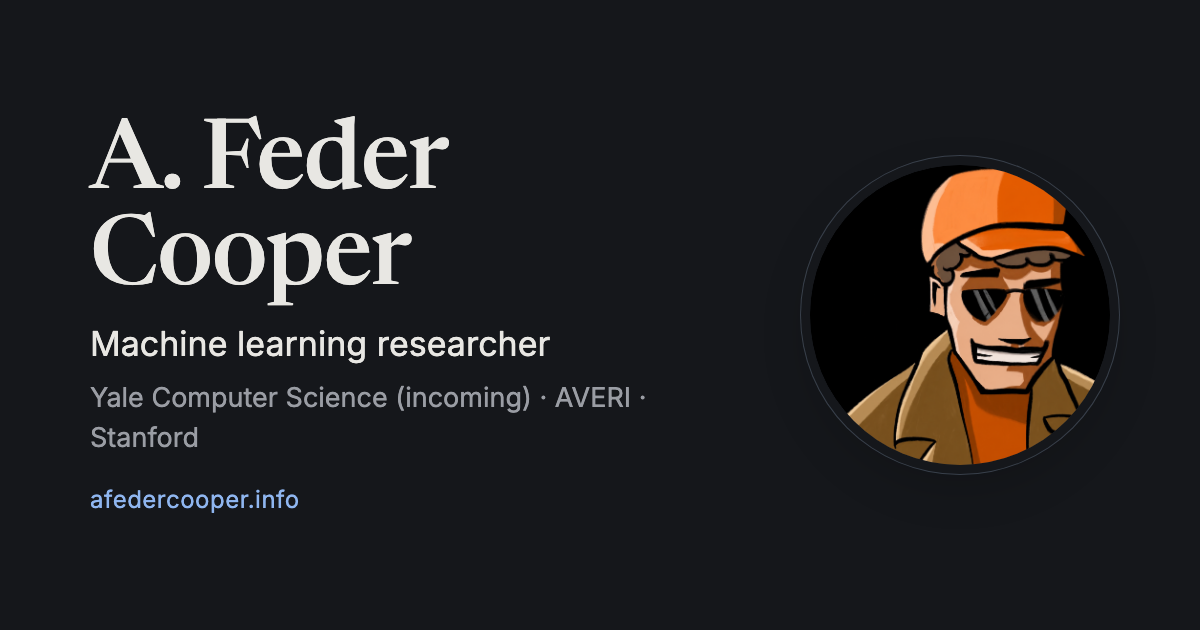
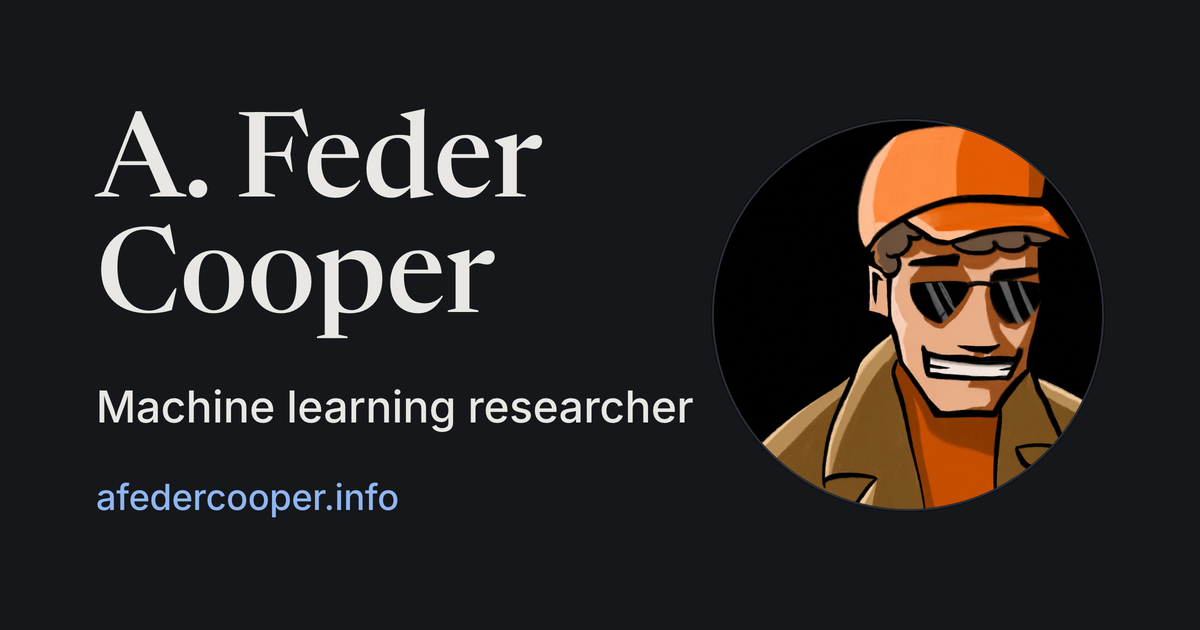
august 2026 p2

diff --git a/near-verbatim/index.html b/near-verbatim/index.html
@@ -12,6 +12,7 @@
   <style>html,body{margin:0;padding:0}</style>
   <title>How much more memorization do we find when we count near-verbatim cases?</title>
   <meta name="description" content="Measuring memorization by exact matches alone undercounts it. We estimate near-verbatim extraction risk in language models with decoding-constrained beam search.">
+  <meta name="robots" content="noindex">
 
   <link rel="preload" href="/fonts/newsreader-var.woff2" as="font" type="font/woff2" crossorigin>
   <link rel="preload" href="/fonts/inter-var.woff2" as="font" type="font/woff2" crossorigin>
@@ -22,16 +23,17 @@
 
   <!-- Open Graph / social cards -->
   <meta property="og:type" content="article">
-  <meta property="og:site_name" content="Estimating near-verbatim extraction risk in language models with decoding-constrained beam search">
-  <meta property="og:title" content="How much more memorization do we find when we count near-verbatim cases?">
-  <meta property="og:description" content="Measuring memorization by exact matches alone undercounts it. Sequences that look safe under exact-match measurement can be reproducible near-verbatim more than 85% of the time.">
+  <meta property="og:site_name" content="A. Feder Cooper">
+  <meta property="og:title" content="Estimating near-verbatim extraction risk in language models with decoding-constrained beam search">
+  <meta property="og:description" content="COLM 2026 · Coming soon.">
   <meta property="og:url" content="https://afedercooper.info/near-verbatim/">
   <meta property="og:image" content="https://afedercooper.info/og-image.png">
   <meta property="og:image:width" content="1200">
   <meta property="og:image:height" content="630">
+  <meta property="og:image:alt" content="COLM 2026 · Coming soon.">
   <meta name="twitter:card" content="summary_large_image">
-  <meta name="twitter:title" content="How much more memorization do we find when we count near-verbatim cases?">
-  <meta name="twitter:description" content="Measuring memorization by exact matches alone undercounts it. Sequences that look safe under exact-match measurement can be reproducible near-verbatim more than 85% of the time.">
+  <meta name="twitter:title" content="Estimating near-verbatim extraction risk in language models with decoding-constrained beam search">
+  <meta name="twitter:description" content="COLM 2026 · Coming soon.">
   <meta name="twitter:image" content="https://afedercooper.info/og-image.png">
 
   <!-- Cloudflare Web Analytics -->

diff --git a/index.html b/index.html
@@ -5,7 +5,7 @@
   <meta name="viewport" content="width=device-width, initial-scale=1">
   <style>html,body{margin:0;padding:0}</style>
   <title>A. Feder Cooper</title>
-  <meta name="description" content="A. Feder Cooper — machine learning researcher, Assistant Professor of Computer Science at Yale University">
+  <meta name="description" content="A. Feder Cooper — machine learning researcher">
 
   <link rel="preload" href="/fonts/newsreader-var.woff2" as="font" type="font/woff2" crossorigin>
   <link rel="preload" href="/fonts/inter-var.woff2" as="font" type="font/woff2" crossorigin>
@@ -16,17 +16,16 @@
 
   <!-- Open Graph / social cards -->
   <meta property="og:type" content="website">
-  <meta property="og:site_name" content="A. Feder Cooper">
   <meta property="og:title" content="A. Feder Cooper">
-  <meta property="og:description" content="Machine learning researcher, Assistant Professor of Computer Science at Yale University">
+  <meta property="og:description" content="Machine learning researcher">
   <meta property="og:url" content="https://afedercooper.info/">
   <meta property="og:image" content="https://afedercooper.info/og-image.png">
   <meta property="og:image:width" content="1200">
   <meta property="og:image:height" content="630">
-  <meta property="og:image:alt" content="A. Feder Cooper — machine learning researcher">
+  <meta property="og:image:alt" content="Machine learning researcher">
   <meta name="twitter:card" content="summary_large_image">
   <meta name="twitter:title" content="A. Feder Cooper">
-  <meta name="twitter:description" content="Machine learning researcher, Assistant Professor of Computer Science at Yale University">
+  <meta name="twitter:description" content="Machine learning researcher">
   <meta name="twitter:image" content="https://afedercooper.info/og-image.png">
   <!-- Cloudflare Web Analytics -->
   <script defer src='https://static.cloudflareinsights.com/beacon.min.js' data-cf-beacon='{"token": "e0d76ad15bb64aaf95e16e34749de466"}'></script>

diff --git a/publications.html b/publications.html
@@ -5,7 +5,7 @@
   <meta name="viewport" content="width=device-width, initial-scale=1">
   <style>html,body{margin:0;padding:0}</style>
   <title>Papers — A. Feder Cooper</title>
-  <meta name="description" content="Papers by A. Feder Cooper.">
+  <meta name="description" content="Research papers">
 
   <link rel="preload" href="/fonts/newsreader-var.woff2" as="font" type="font/woff2" crossorigin>
   <link rel="preload" href="/fonts/inter-var.woff2" as="font" type="font/woff2" crossorigin>
@@ -17,16 +17,16 @@
   <!-- Open Graph / social cards -->
   <meta property="og:type" content="website">
   <meta property="og:site_name" content="A. Feder Cooper">
-  <meta property="og:title" content="Papers — A. Feder Cooper">
-  <meta property="og:description" content="Selected and full list of papers by A. Feder Cooper.">
+  <meta property="og:title" content="Research papers">
+  <meta property="og:description" content="Research papers">
   <meta property="og:url" content="https://afedercooper.info/publications.html">
   <meta property="og:image" content="https://afedercooper.info/og-image.png">
   <meta property="og:image:width" content="1200">
   <meta property="og:image:height" content="630">
-  <meta property="og:image:alt" content="A. Feder Cooper — machine learning researcher">
+  <meta property="og:image:alt" content="Research papers">
   <meta name="twitter:card" content="summary_large_image">
-  <meta name="twitter:title" content="Papers — A. Feder Cooper">
-  <meta name="twitter:description" content="Selected and full list of papers by A. Feder Cooper.">
+  <meta name="twitter:title" content="Research papers">
+  <meta name="twitter:description" content="Research papers">
   <meta name="twitter:image" content="https://afedercooper.info/og-image.png">
   <!-- Cloudflare Web Analytics -->
   <script defer src='https://static.cloudflareinsights.com/beacon.min.js' data-cf-beacon='{"token": "e0d76ad15bb64aaf95e16e34749de466"}'></script>

diff --git a/pasta/index.html b/pasta/index.html
@@ -4,8 +4,8 @@
   <meta charset="utf-8">
   <meta name="viewport" content="width=device-width, initial-scale=1">
   <style>html,body{margin:0;padding:0}</style>
-  <title>Lo Studio del Pastaio — A. Feder Cooper</title>
-  <meta name="description" content="Fresh pasta, made by hand.">
+  <title>Pasta — A. Feder Cooper</title>
+  <meta name="description" content="Pasta">
 
   <link rel="preload" href="/fonts/newsreader-var.woff2" as="font" type="font/woff2" crossorigin>
   <link rel="preload" href="/fonts/inter-var.woff2" as="font" type="font/woff2" crossorigin>
@@ -17,16 +17,16 @@
   <!-- Open Graph / social cards -->
   <meta property="og:type" content="website">
   <meta property="og:site_name" content="A. Feder Cooper">
-  <meta property="og:title" content="Lo Studio del Pastaio — A. Feder Cooper">
-  <meta property="og:description" content="Fresh pasta, made by hand.">
+  <meta property="og:title" content="Pasta">
+  <meta property="og:description" content="Pasta">
   <meta property="og:url" content="https://afedercooper.info/pasta/">
   <meta property="og:image" content="https://afedercooper.info/og-image.png">
   <meta property="og:image:width" content="1200">
   <meta property="og:image:height" content="630">
-  <meta property="og:image:alt" content="A. Feder Cooper — machine learning researcher">
+  <meta property="og:image:alt" content="Pasta">
   <meta name="twitter:card" content="summary_large_image">
-  <meta name="twitter:title" content="Lo Studio del Pastaio — A. Feder Cooper">
-  <meta name="twitter:description" content="Fresh pasta, made by hand.">
+  <meta name="twitter:title" content="Pasta">
+  <meta name="twitter:description" content="Pasta">
   <meta name="twitter:image" content="https://afedercooper.info/og-image.png">
   <!-- Cloudflare Web Analytics -->
   <script defer src='https://static.cloudflareinsights.com/beacon.min.js' data-cf-beacon='{"token": "e0d76ad15bb64aaf95e16e34749de466"}'></script>

diff --git a/mischiefenergy/index.html b/mischiefenergy/index.html
@@ -5,7 +5,7 @@
   <meta name="viewport" content="width=device-width, initial-scale=1">
   <style>html,body{margin:0;padding:0}</style>
   <title>Mischief — A. Feder Cooper</title>
-  <meta name="description" content="Mischief.">
+  <meta name="description" content="Mischief">
 
   <link rel="preload" href="/fonts/newsreader-var.woff2" as="font" type="font/woff2" crossorigin>
   <link rel="preload" href="/fonts/inter-var.woff2" as="font" type="font/woff2" crossorigin>
@@ -17,16 +17,16 @@
   <!-- Open Graph / social cards -->
   <meta property="og:type" content="website">
   <meta property="og:site_name" content="A. Feder Cooper">
-  <meta property="og:title" content="Mischief — A. Feder Cooper">
-  <meta property="og:description" content="Mischief.">
+  <meta property="og:title" content="Mischief">
+  <meta property="og:description" content="Mischief">
   <meta property="og:url" content="https://afedercooper.info/mischiefenergy/">
   <meta property="og:image" content="https://afedercooper.info/og-image.png">
   <meta property="og:image:width" content="1200">
   <meta property="og:image:height" content="630">
-  <meta property="og:image:alt" content="A. Feder Cooper — machine learning researcher">
+  <meta property="og:image:alt" content="Mischief">
   <meta name="twitter:card" content="summary_large_image">
-  <meta name="twitter:title" content="Mischief — A. Feder Cooper">
-  <meta name="twitter:description" content="Mischief.">
+  <meta name="twitter:title" content="Mischief">
+  <meta name="twitter:description" content="Mischief">
   <meta name="twitter:image" content="https://afedercooper.info/og-image.png">
 
   <!-- Cloudflare Web Analytics -->

diff --git a/writing/index.html b/writing/index.html
@@ -17,15 +17,15 @@
   <!-- Open Graph / social cards -->
   <meta property="og:type" content="website">
   <meta property="og:site_name" content="A. Feder Cooper">
-  <meta property="og:title" content="Writing — A. Feder Cooper">
+  <meta property="og:title" content="Writing">
   <meta property="og:description" content="Informal notes and explainers on machine learning, memorization, and AI &amp; law.">
   <meta property="og:url" content="https://afedercooper.info/writing/">
   <meta property="og:image" content="https://afedercooper.info/og-image.png">
   <meta property="og:image:width" content="1200">
   <meta property="og:image:height" content="630">
-  <meta property="og:image:alt" content="A. Feder Cooper — machine learning researcher">
+  <meta property="og:image:alt" content="Informal notes and explainers on machine learning, memorization, and AI &amp; law.">
   <meta name="twitter:card" content="summary_large_image">
-  <meta name="twitter:title" content="Writing — A. Feder Cooper">
+  <meta name="twitter:title" content="Writing">
   <meta name="twitter:description" content="Informal notes and explainers on machine learning, memorization, and AI &amp; law.">
   <meta name="twitter:image" content="https://afedercooper.info/og-image.png">
   <!-- Cloudflare Web Analytics -->
